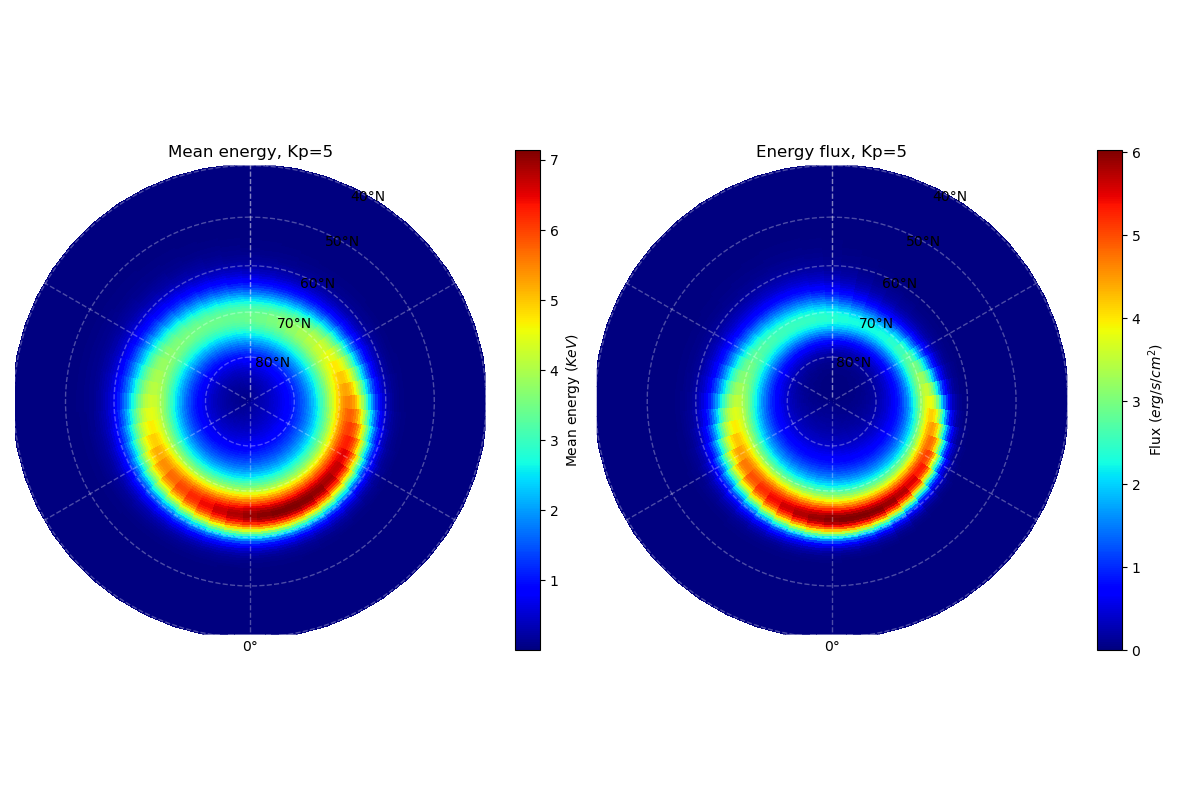
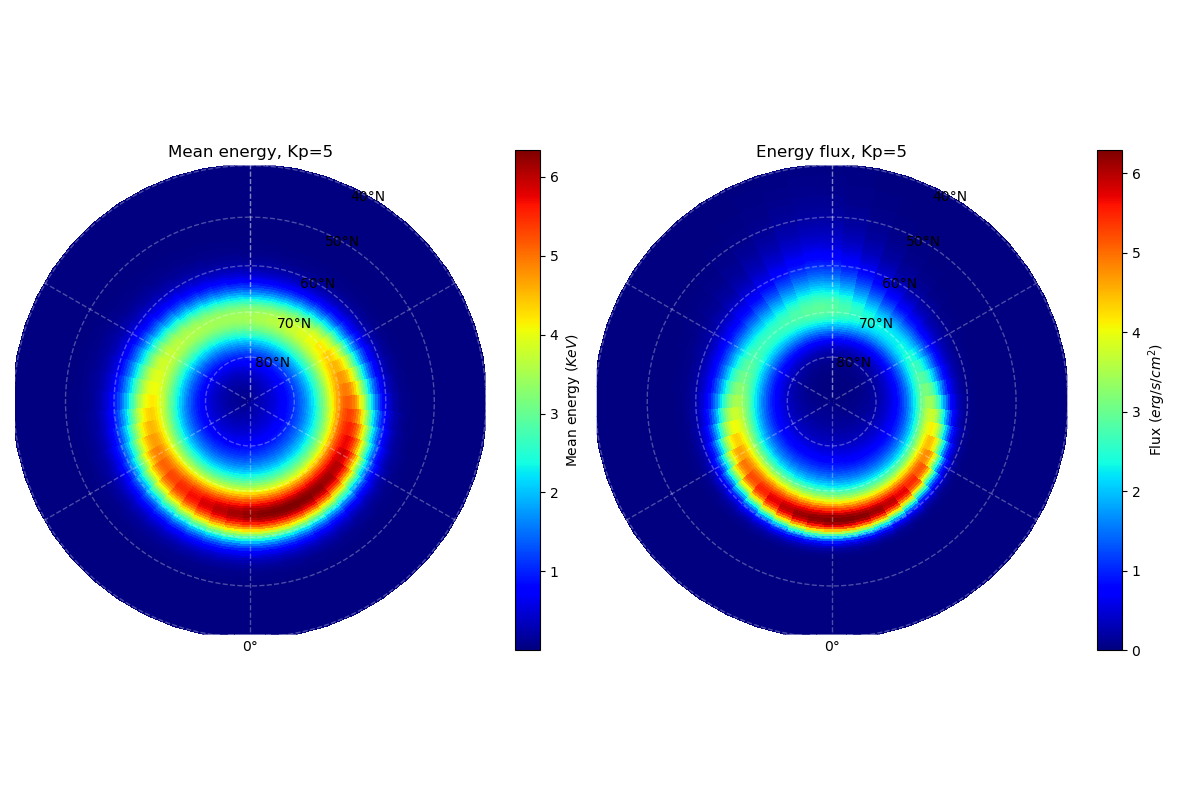
updated

Changed region(s): [[0.0617, 0.3438, 0.3392, 0.7188], [0.5858, 0.25, 0.8017, 0.6875]]

diff --git a/ZhangPaxtonModel.py b/ZhangPaxtonModel.py
@@ -2,6 +2,8 @@ import numpy as np
 import os
 import matplotlib.pyplot as plt
 import cartopy.crs as ccrs
+import warnings
+warnings.filterwarnings("ignore")
 # This is a script for the kp-based auroral model provided in the paper
 # https://doi.org/10.1016/j.jastp.2008.03.008
 # This is not complete and not in standard, feel free to modify and use it
@@ -115,41 +117,27 @@ def Eflux(kp):
     f2 = (kp-kpm1)/(kpm2-kpm1)
     flux = np.nan*np.zeros((len(MLT), len(Mlat)))
     #Emean = np.nan*np.zeros((len(MLT), len(Mlat)))
+    flux = []
     L, U = flux_coeff(kp)
-    for i in range(len(MLT)):
-        a = L[0][i]
-        b = L[1][i]
-        c = L[2][i]
-        d = L[3][i]
-        a2 = U[0][i]
-        b2 = U[1][i]
-        c2 = U[2][i]
-        d2 = L[3][i]
+    for a, b, c, d, a2, b2, c2, d2 in zip(L[0], L[1], L[2], L[3], U[0], U[1], U[2], U[3]):
         Eom1 = (a*np.exp((chi-b)/c))/((1+np.exp((chi-b)/d))**2)
         Eom2 = (a2*np.exp((chi-b2)/c2))/((1+np.exp((chi-b2)/d2))**2)
-        flux[i:] = f1*Eom1+f2*Eom2
+        flux.append(f1*Eom1+f2*Eom2)
     #Eo = F1*Eom1+F2*Eom2
-    return flux
+    return np.array(flux)
 
 
 def Emean(kp):
     emean = np.nan*np.zeros((len(MLT), len(Mlat)))
+    emean = []
     L, U = mean_coeff(kp)
     F1, F2 = HemisphericPower(kp)
-    for i in range(len(MLT)):
-        a = L[0][i]
-        b = L[1][i]
-        c = L[2][i]
-        d = L[3][i]
-        a2 = U[0][i]
-        b2 = U[1][i]
-        c2 = U[2][i]
-        d2 = L[3][i]
+    for a, b, c, d, a2, b2, c2, d2 in zip(L[0], L[1], L[2], L[3], U[0], U[1], U[2], U[3]):
         Eom1 = (a*np.exp((chi-b)/c))/((1+np.exp((chi-b)/d))**2)
         Eom2 = (a2*np.exp((chi-b2)/c2))/((1+np.exp((chi-b2)/d2))**2)
-        emean[i:] = F1*Eom1+F2*Eom2
+        emean.append(F1*Eom1+F2*Eom2)
     #Eo = F1*Eom1+F2*Eom2
-    return emean
+    return np.array(emean)
 
 
 def plot_kp(kp, savefig=False):
